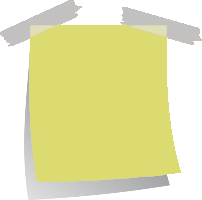
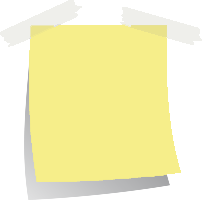
Updated Colours
Updated Colours

diff --git a/public/assets/js/whiteboard.js b/public/assets/js/whiteboard.js
@@ -10,7 +10,7 @@ $(document).ready(() => {
   });
 
   // Click event for new note.
-  $(document).on("click", "#red,#blue,#yellow", newNote);
+  $(document).on("click", "#pink,#orange,#yellow", newNote);
 
   // Sets colour button id for newNote POST.
   $(".dropdown-menu").click(c => {
